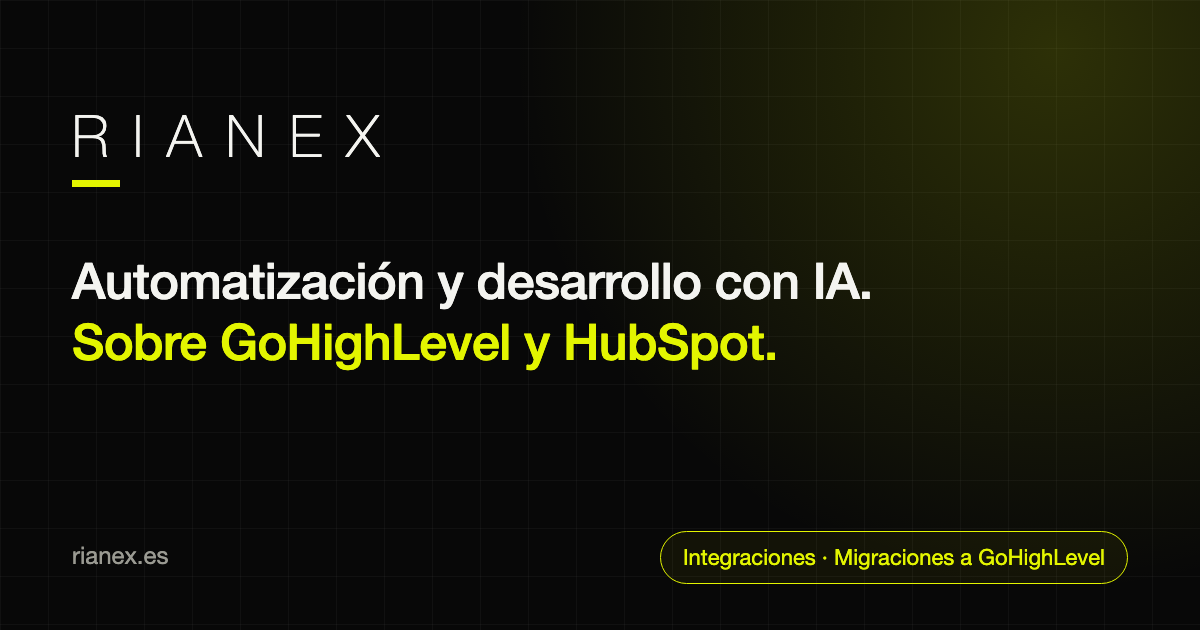
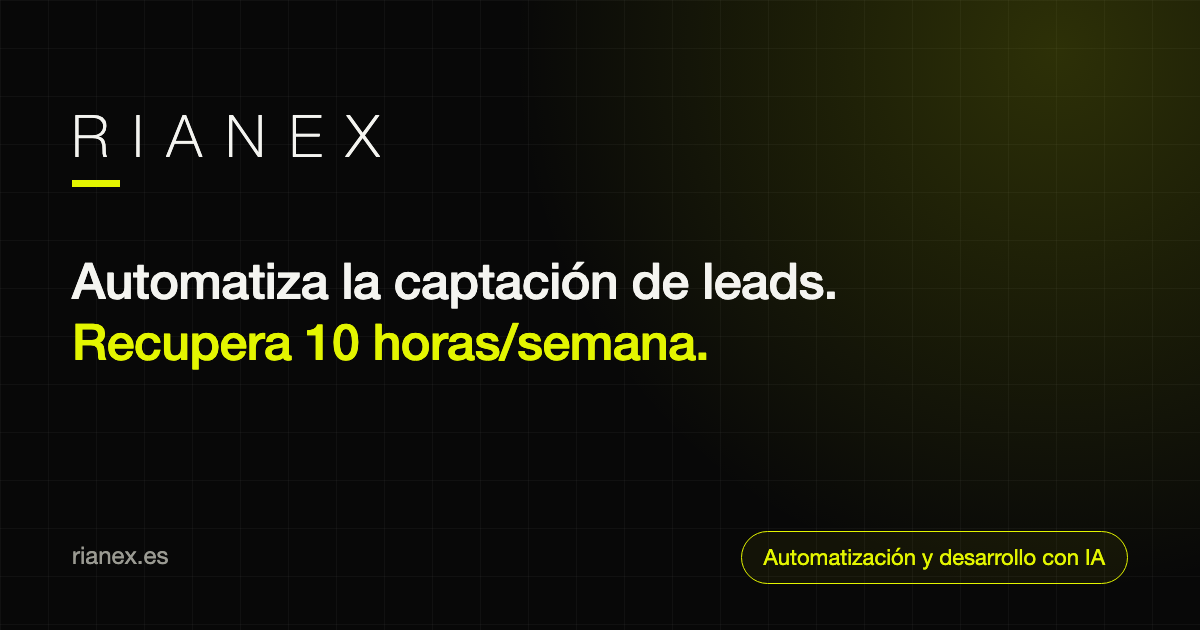
Hero: vuelve el titular de captación de leads, generalizado a 'tu negocio'

Changed region(s): [[0.0617, 0.5127, 0.6475, 0.6032], [0.2775, 0.4222, 0.74, 0.4825], [0.555, 0.8746, 0.925, 0.9048]]

diff --git a/src/app/layout.tsx b/src/app/layout.tsx
@@ -35,7 +35,7 @@ const SITE_URL = "https://www.rianex.es";
 export const metadata: Metadata = {
   metadataBase: new URL(SITE_URL),
   title: {
-    default: "Rianex — Automatización con IA, GoHighLevel y HubSpot",
+    default: "Rianex — Automatización y desarrollo con IA",
     template: "%s | Rianex",
   },
   description:
@@ -58,14 +58,14 @@ export const metadata: Metadata = {
     alternateLocale: "en_US",
     url: SITE_URL,
     siteName: "Rianex",
-    title: "Rianex — Automatización con IA, GoHighLevel y HubSpot",
+    title: "Rianex — Automatización y desarrollo con IA",
     description:
       "Automatización y desarrollo con IA, integraciones de GoHighLevel y HubSpot, y migraciones a GoHighLevel.",
     images: [{ url: "/og.png", width: 1200, height: 630, alt: "Rianex" }],
   },
   twitter: {
     card: "summary_large_image",
-    title: "Rianex — Automatización con IA, GoHighLevel y HubSpot",
+    title: "Rianex — Automatización y desarrollo con IA",
     description:
       "Automatización y desarrollo con IA, integraciones de GoHighLevel y HubSpot, y migraciones a GoHighLevel.",
     images: ["/og.png"],

diff --git a/src/lib/content.ts b/src/lib/content.ts
@@ -28,8 +28,8 @@ export const content = {
 
     hero: {
       eyebrow: "Automatización y desarrollo con IA",
-      titlePre: "Automatización con IA sobre ",
-      titleHighlight: "GoHighLevel y HubSpot.",
+      titlePre: "Automatiza la captación de leads de tu negocio y ",
+      titleHighlight: "recupera 10 horas/semana.",
       titlePost: "",
       subtitle:
         "Automatizamos procesos, desarrollamos agentes y herramientas con IA, conectamos tu CRM con el resto de tu stack y te migramos a GoHighLevel con todo tu histórico.",
@@ -549,8 +549,8 @@ export const content = {
 
     hero: {
       eyebrow: "AI automation and development",
-      titlePre: "AI automation on ",
-      titleHighlight: "GoHighLevel and HubSpot.",
+      titlePre: "Automate your lead capture and ",
+      titleHighlight: "get 10 hours/week back.",
       titlePost: "",
       subtitle:
         "We automate processes, build AI agents and tools, connect your CRM to the rest of your stack, and move you to GoHighLevel with your full history.",
